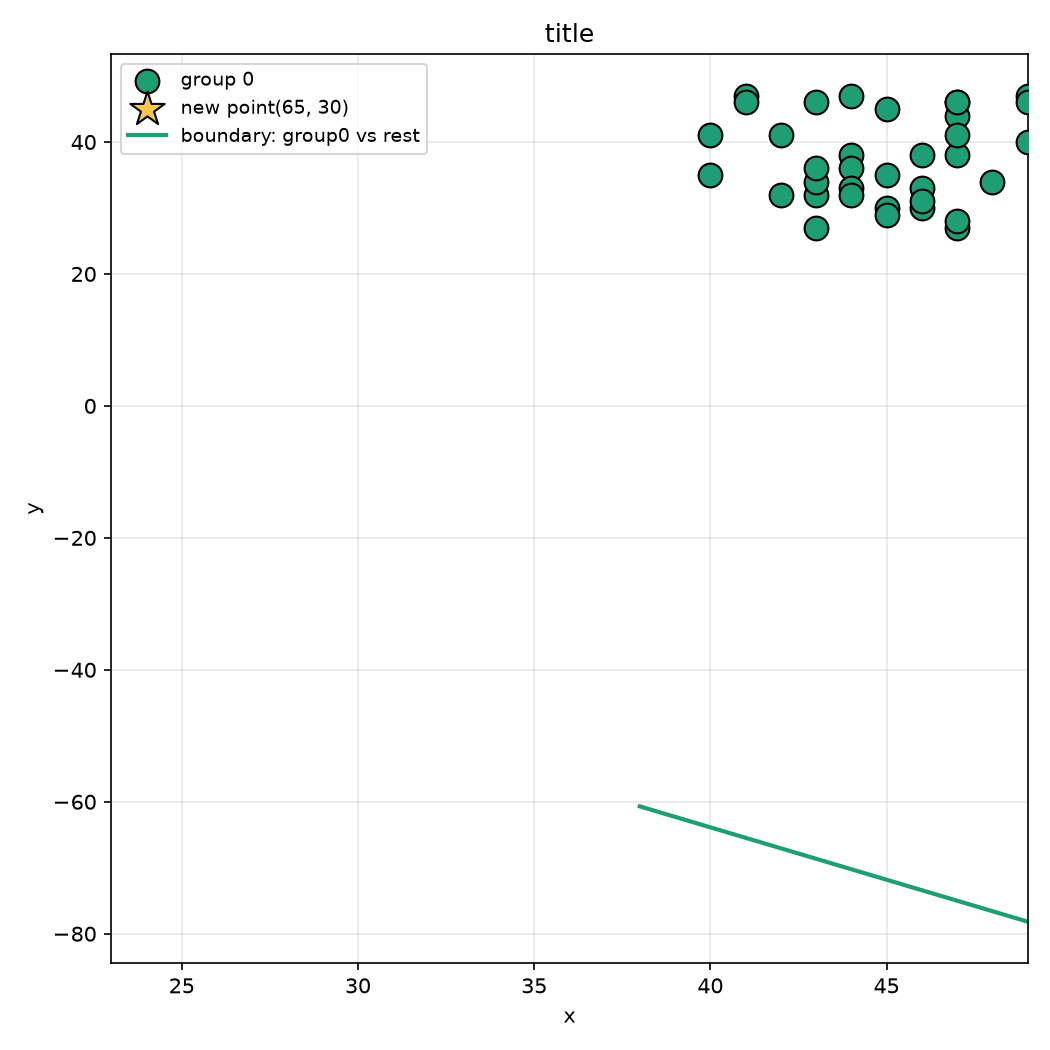
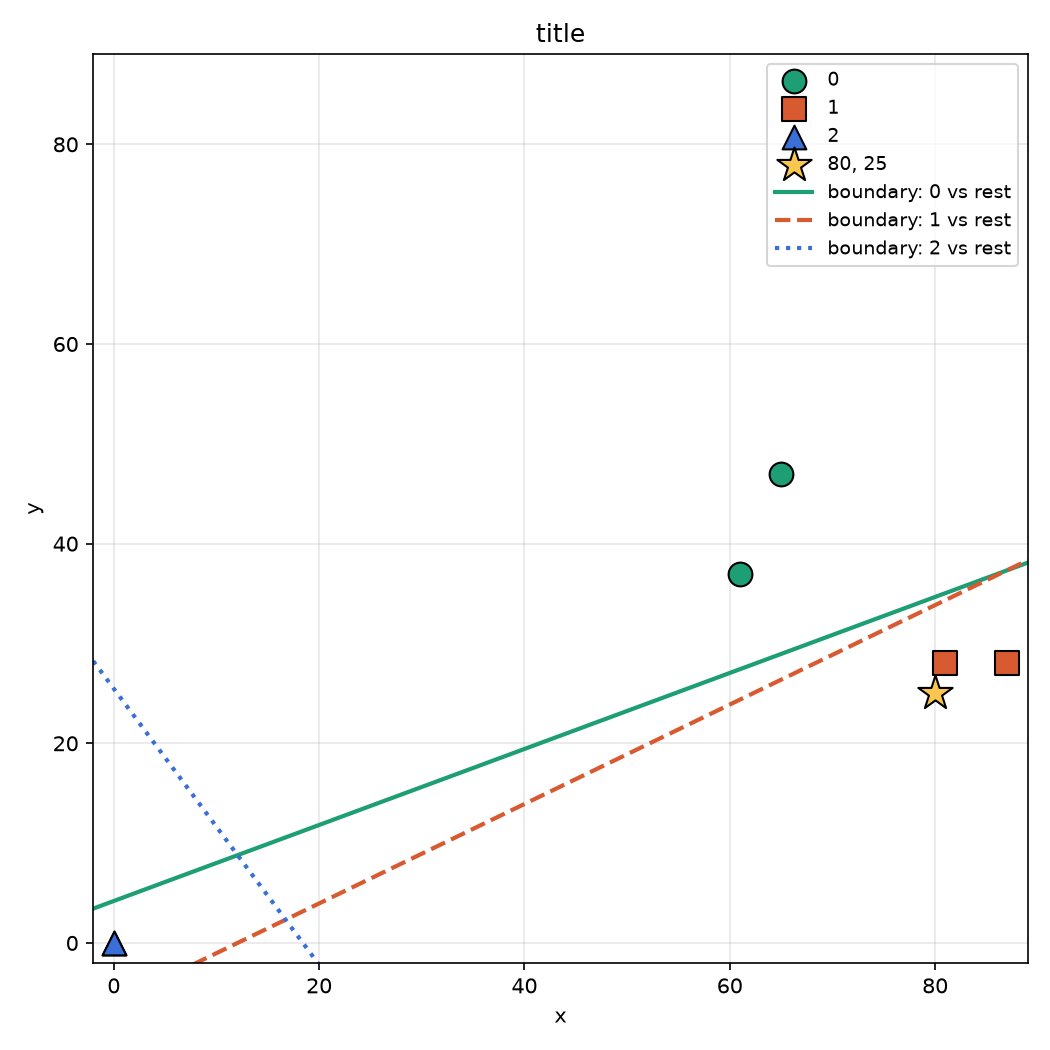
add testing ffile for multiple new poinbt

diff --git a/main.py b/main.py
@@ -75,71 +75,57 @@ def example2d2class():
 
         return model
 
-
+#########################################################################################
+#########################################################################################
+#########################################################################################
 
 def example2d3class():
 
-    print(f"\nLinear SVM with 2D data, 3 class\n")
+    x = numpy.array([
+        [65,47],
+        [61,37],
+        [87,28],
+        [81,28],
+        [0,0],
+        [0,0],
+    ], dtype = float)
+    y = numpy.array([0, 0 ,1 ,1, 2, 2])
 
-    
-    data = numpy.genfromtxt("data2var.csv", delimiter = ",", skip_header = 1)
-    print(f"ข้อมูล X2: {data.shape[0]} แถว,{data.shape[1]} ตัวแปร")
-    x = data[:, 0:2]
-    y = data[:, 2].astype(int)
-    print(x.shape)
-    print(y.shape)
-    
-    # x = numpy.array([
-    #     [1,1],
-    #     [1,2],
-    #     [1,3],
-    #     [2,1],
-    #     [2,2],
-    #     [2,3],
-    #     [3,1],
-    #     [3,2],
-    #     [3,3],
-    # ], dtype = float)
-    # y = numpy.array([0, 0, 0, 1, 1, 1, 2, 2, 2])
-
-    model = MultiClassSVM(learningRate = 1e-3, lambdaParam = 1e-2, iteration = 3000)
+    model = MultiClassSVM(learningRate=1e-3, lambdaParam=1e-2, iteration=3000)
     model.fit(x, y)
 
     for cls, m in model.model.items():
 
-        print(f"group {cls} vs rest: w = {m.w}, b = {m.b:.4f}")
+        print(f"group {cls} vs rest\nw = {m.w}, b = {m.b:.4f}")
 
-        predict = model.predict(x)
-        print(f"predicted: {predict} | actual: {y}")
+    predict = model.predict(x)
+    print(f"predicted: {predict}\nactual: {y}")
 
-        # predict a new point
+    # predict a new point
 
-        xNew = numpy.array([[65, 30]])
+    xNew = numpy.array([[80,25]])
 
-        score = model.decisionScore(xNew)
-        predictNew = model.predict(xNew)[0]
-        print(f"\nNew point (8, 5) score: {score}")
-        print(f"predicted group: {predictNew}")
+    score = model.decisionScore(xNew)
+    predictNew = model.predict(xNew)[0]
+    print(f"\nnewpoint: {xNew}\nscore: {score}\npredicted group: {predictNew}")
 
-        # plot with matplotlib
+    # plot with matplotlib
 
-        fig, ax = plt.subplots(figsize = (7, 7))
+    fig, ax = plt.subplots(figsize = (7, 7))
 
-        color = {0: "#1d9e75", 1: "#d85a30", 2: "#3a6fd8"}
-        marker = {0: "o", 1: "s", 2: "^"}
+    color = {0: "#1d9e75", 1: "#d85a30", 2: "#3a6fd8"}
+    marker = {0: "o", 1: "s", 2: "^"}
 
-        for cls in model.classes:
+    for cls in model.classes:
 
-            pts = x[y == cls]
-            ax.scatter(pts[:, 0], pts[:, 1], marker = marker[cls], s = 130,
-                       color = color[cls], edgecolor = "black", label = f"group {cls}", zorder = 3)
+        pts = x[y == cls]
+        ax.scatter(pts[:, 0], pts[:, 1], marker = marker[cls], s = 130, color = color[cls], edgecolor = "black", label = f"{cls}", zorder = 3)
 
-        ax.scatter(xNew[:, 0], xNew[:, 1], marker = "*", s = 300, color = "#f9c74f",
-                   edgecolor = "black", label = f"new point({int(xNew[0,0])}, {int(xNew[0,1])})", zorder = 4)
+    ax.scatter(xNew[:, 0], xNew[:, 1], marker = "*", s = 300, color = "#f9c74f", edgecolor = "black", label = f"{int(xNew[0,0])}, {int(xNew[0,1])}", zorder = 4)
 
-    # draw each oneVSrest boundary
+    # draw one-vs-rest boundary
 
-    x1val = numpy.linspace(x[:, 0].min() - 2, x[:, 1].max() + 2, 100)
+    x1val = numpy.linspace(x[:, 0].min() - 2, x[:, 0].max() + 2, 100)
     lineStyle = {0: "-", 1: "--", 2: ":"}
 
     for cls in model.classes:
@@ -150,29 +136,36 @@ def example2d3class():
         if abs(w1) > 1e-9:
 
             x2val = -(w0 * x1val + b) / w1
-            ax.plot(x1val, x2val, lineStyle[cls], color = color[cls],
-                    linewidth = 2, label = f"boundary: group{cls} vs rest")
+            ax.plot(x1val, x2val, lineStyle[cls], color = color[cls], linewidth = 2, label = f"boundary: {cls} vs rest")
 
     ax.set_xlabel("x")
     ax.set_ylabel("y")
     ax.set_title("title")
+
     ax.legend(fontsize = 9)
     ax.grid(alpha = 0.3)
+
     ax.set_xlim(x[:, 0].min() - 2, x[:, 0].max() + 2)
-    ax.set_xlim(x[:, 1].min() - 2, x[:, 1].max() + 2)
+    ax.set_ylim(x[:, 0].min() - 2, x[:, 0].max() + 2)
     fig.tight_layout()
 
+    # outputting
+
     outpath = "svm2d3class.png"
+
     fig.savefig(outpath, dpi = 150)
     plt.close(fig)
+
     print(f"saved to '{outpath}'")
 
     return model
 
-
+#########################################################################################
+#########################################################################################
+#########################################################################################
 
 if __name__ == "__main__":
 
-    example2d2class()
+    # example2d2class()
 
-    # example2d3class()
+    example2d3class()

diff --git a/test3class.py b/test3class.py
@@ -1,0 +1,110 @@
+# 3class.py
+
+# 2d3class
+
+import numpy as numpy
+import matplotlib.pyplot as plt
+from svm_class import MultiClassSVM
+
+
+
+def example2d3class():
+
+    x = numpy.array([
+        [65,47],
+        [61,37],
+        [87,28],
+        [81,28],
+        [0,0],
+        [0,0],
+    ], dtype = float)
+    y = numpy.array([0, 0 ,1 ,1, 2, 2])
+
+    # data = numpy.genfromtxt("data2var.csv", delimiter = ",", skip_header = 1)
+    # print(f"ข้อมูล X2: {data.shape[0]} แถว,{data.shape[1]} ตัวแปร")
+    # x = data[:, 0:2]
+    # y = data[:, 2].astype(int)
+    # print(x.shape)
+    # print(y.shape)
+
+    model = MultiClassSVM(learningRate=1e-3, lambdaParam=1e-2, iteration=3000)
+    model.fit(x, y)
+
+    for cls, m in model.model.items():
+
+        print(f"group {cls} vs rest\nw = {m.w}, b = {m.b:.4f}")
+
+    predict = model.predict(x)
+    print(f"predicted: {predict}\nactual: {y}")
+
+    # predict a new point 1
+
+    xNew = numpy.array([[60,35]])
+    score = model.decisionScore(xNew)
+    predictNew = model.predict(xNew)[0]
+    print(f"\nnewpoint: {xNew}\nscore: {score}\npredicted group: {predictNew}")
+
+    # predict a new point 2
+    
+    yNew = numpy.array([[80,25]])
+    score = model.decisionScore(yNew)
+    yPredictNew = model.predict(yNew)[0]
+    print(f"\nnewpoint: {yNew}\nscore: {score}\npredicted group: {yPredictNew}")
+
+    # plot with matplotlib 1
+
+    fig, ax = plt.subplots(figsize = (7, 7))
+
+    color = {0: "#1d9e75", 1: "#d85a30", 2: "#3a6fd8"}
+    marker = {0: "o", 1: "s", 2: "^"}
+
+    for cls in model.classes:
+
+        pts = x[y == cls]
+        ax.scatter(pts[:, 0], pts[:, 1], marker = marker[cls], s = 130, color = color[cls], edgecolor = "black", label = f"{cls}", zorder = 3)
+
+    ax.scatter(xNew[:, 0], xNew[:, 1], marker = "*", s = 300, color = "#f9c74f", edgecolor = "black", label = f"{int(xNew[0,0])}, {int(xNew[0,1])}", zorder = 4)
+    ax.scatter(yNew[:, 0], yNew[:, 1], marker = "*", s = 300, color = "#f9c74f", edgecolor = "black", label = f"{int(yNew[0,0])}, {int(yNew[0,1])}", zorder = 4)
+
+    # draw one-vs-rest boundary
+
+    x1val = numpy.linspace(x[:, 0].min() - 2, x[:, 0].max() + 2, 100)
+    lineStyle = {0: "-", 1: "--", 2: ":"}
+
+    for cls in model.classes:
+
+        w0, w1 = model.model[cls].w
+        b = model.model[cls].b
+
+        if abs(w1) > 1e-9:
+
+            x2val = -(w0 * x1val + b) / w1
+            ax.plot(x1val, x2val, lineStyle[cls], color = color[cls], linewidth = 2, label = f"boundary: {cls} vs rest")
+
+    ax.set_xlabel("x")
+    ax.set_ylabel("y")
+    ax.set_title("title")
+
+    ax.legend(fontsize = 9)
+    ax.grid(alpha = 0.3)
+
+    ax.set_xlim(x[:, 0].min() - 2, x[:, 0].max() + 2)
+    ax.set_ylim(x[:, 0].min() - 2, x[:, 0].max() + 2)
+    fig.tight_layout()
+
+    # outputting
+
+    outpath = "TEST2d3c.png"
+
+    fig.savefig(outpath, dpi = 150)
+    plt.close(fig)
+
+    print(f"saved to '{outpath}'")
+
+    return model
+
+
+
+if __name__ == "__main__":
+
+    example2d3class()
